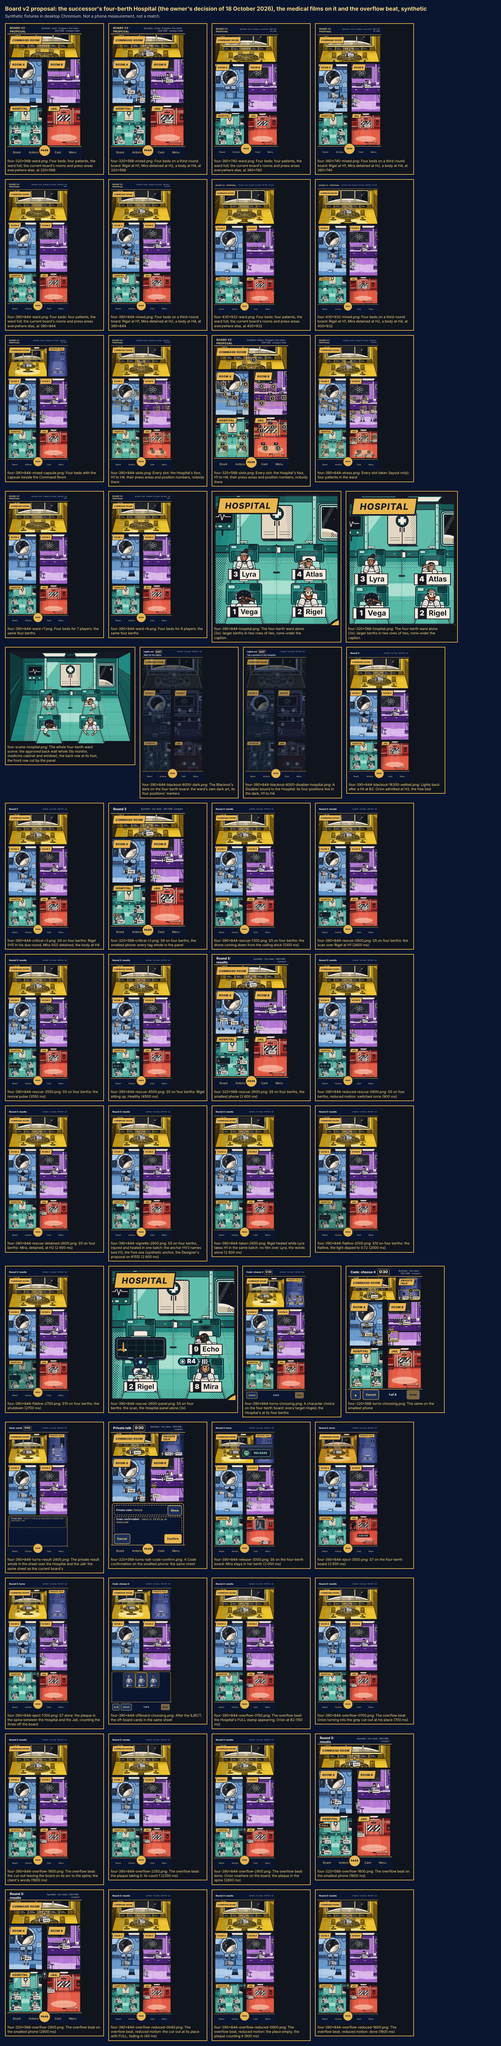
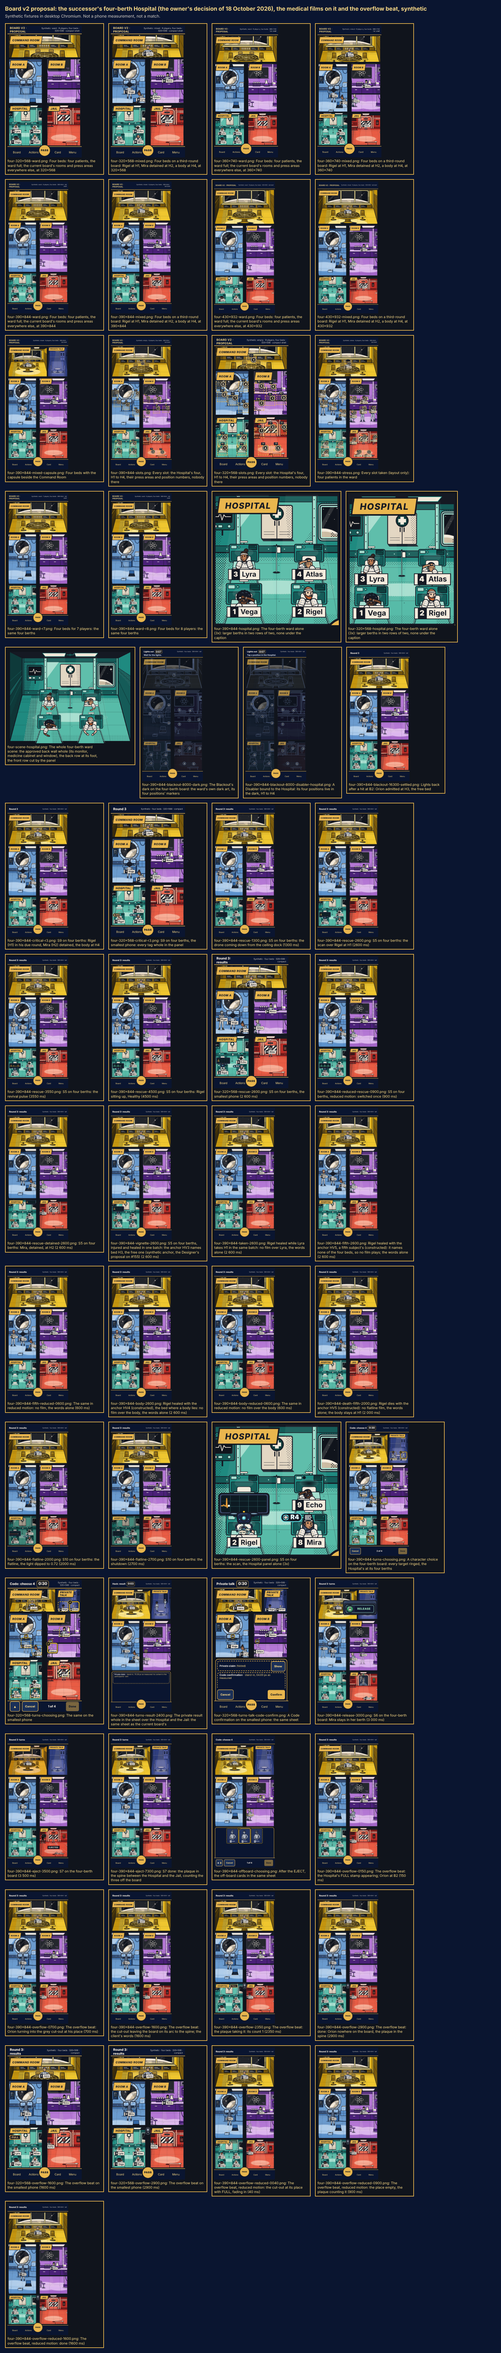
Design: no film for a clinical anchor beyond the four beds (#160 review)
Integration's review on #160, and Frontend's on #162, reproduced
fourFilmBerth({ anchorId: 'HV5' }, [], 1) throwing, although the handoff
promised the outcome's words alone when a valid clinical presentation
names no bed of the four-berth ward. Integration then accepted the
consumer boundary on #155: four physical beds, H1 to H4; clinical anchors
that stay roster-sized (HV1 to HV7, HV8 or HV9, slotCount the starting
roster); and words only for a valid HV5 and up, after strict wire
validation.

- fx/medical-four.mjs (board-v2-medical-four-0.1.1): for an authorized
  anchor beyond the four beds, fourFilmBerth() returns the explicit
  decision { berth: null, plays: false, holder: null } before asking for
  a bed. fourClinicalBerth() stays strict for actual beds. Both refuse
  anything that is not a clinical anchor of a successor match: a
  malformed id, an anchor beyond its slotCount, or a slotCount other
  than 7, 8 or 9. No exception is caught. The helper validates and
  authorizes no anchor; the caller's wire validation comes first.
- The review fixtures gain three constructed outcomes on the four-berth
  board: rescue-fifth (HV5), rescue-body (HV4, the bed a body holds) and
  death-fifth (HV5). Their anchors carry the roster-sized slotCount.
- The capture pictures them: 5 new pictures, in normal and reduced
  motion. It also adds 12 comparisons: for each case in both motion
  modes, every room but the Hospital, and the Hospital's targets, during
[…]

diff --git a/docs/design/hospital-four.md b/docs/design/hospital-four.md
@@ -5,8 +5,8 @@
 Nothing here is a rule, a server contract or an adopted asset:
 
 - **Rules:** who is admitted and who overflows, and in what order (H4-ORDER-01), are Backend's and Integration's. The board draws the server's facts; it allocates no bed and infers no admission or death from a full ward.
-- **The successor's contract is a draft:** Backend's plan on [#157](https://github.com/Amirkianfar66/GameN/pull/157) (`full-game-1.11.0` proposed and unallocated). Its overflow event (H4-CLINICAL-01) is undecided; the beat here is a proposal on Backend's preferred choice A, whose occurrence is still unallocated, with labelled synthetic inputs. The Designer's review of #157 is on [#155](https://github.com/Amirkianfar66/GameN/issues/155#issuecomment-6252817010).
-- **Adoption:** each new file needs Integration's approval by name and hash (section 10). The layout's identity (`board-v2-four-0.1.0` here) is a proposal for Integration to allocate with the successor's tuple.
+- **The successor's contract is being implemented:** Integration accepted a minimal consumer boundary for implementation on [#155](https://github.com/Amirkianfar66/GameN/issues/155#issuecomment-6256117269), and Backend's runtime draft is #163, its early shared contract at `6023d43`. The overflow event is choice A, `HOSPITAL_OVERFLOW_REMOVED { phaseId, round, seatId }`, a non-bed outcome with no clinical anchor and no overflow `MEDICAL_OUTCOME`; the clinical anchors stay roster-sized. The candidate identities (`full-game-1.11.0`, layout `board-v2-four-0.1.0`, art `design-0.5.0`) are reserved, not activated. The beat here was drawn on #157's plan with labelled synthetic inputs, before that runtime contract. The Designer's review of #157 is on [#155](https://github.com/Amirkianfar66/GameN/issues/155#issuecomment-6252817010).
+- **Adoption:** each new file needs Integration's approval by name and hash (section 10). The layout's identity (`board-v2-four-0.1.0`) is reserved by Integration with the successor's candidate tuple, not activated.
 
 | | |
 | --- | --- |
@@ -45,14 +45,26 @@ The films are #158's, unchanged; only the berths' geometry is the four-berth war
 | --- | --- |
 | `fourBerthKit(id)` | A berth's monitor, lamp, plate, bed light, bed, chest and the drone's hover point, in the shape of #158's `berthKit()`, as the four-berth ward draws them. The check holds the numbers to the ward's own SVG elements |
 | `fourRescueFrame(t, berth)` | #158's `rescueFrame()`, every field as it gives it, but the drone's lens over this ward's berth (its path from the same dock, the same timings and bob). The check compares the two every 10 ms in both motion modes |
-| `fourClinicalBerth(anchor)` | The bed an anchor names: `HVn` for `Hn`, n from 1 to 4. The Designer's proposal on #155, not a contract |
-| `fourFilmBerth(anchor, seats, subject)` | #158's rule: the film plays at that bed unless another seat holds it in the published snapshot; then the outcome's words stand alone |
+| `fourClinicalBerth(anchor)` | The bed an anchor names: `HVn` for `Hn`, n from 1 to 4. Strict, for actual beds: anything else throws, an anchor beyond the four beds included |
+| `fourFilmBerth(anchor, seats, subject)` | #158's rule: the film plays at that bed unless another seat holds it in the published snapshot. An anchor the caller has validated on the wire that names none of the four beds (`HV5` and up) declines before the bed is asked for: `{ berth: null, plays: false, holder: null }`, never a fifth bed or another subject's. Where no film plays, the outcome's words stand alone. Anything that is not a clinical anchor throws; the helper validates and authorizes no anchor |
 
-**One place per bed is enough.** An admission plays at the patient's own `slotId`. A rescue (S5) or a flatline (S10) plays at its anchor's bed only when no other seat holds it. So the healed-first case of #157 needs no fifth place: when P7 is healed out of a bed and P1 admitted to it in the same batch, P1's arrival plays at the bed and P7's rescue is said in words. The Designer draws no fifth berth and no clinical place off a bed.
+**The film's decision, for a caller:** `fourFilmBerth(anchor, seats, subject)`.
+
+- `anchor`: one the caller has already validated against the successor's wire contract, with its tuple, audience, revision and expiry: `{ kind: 'CLINICAL_VIGNETTE', batchId, anchorId: 'HVn', slotCount }` (or `'HVn'`). A successor match keeps the roster-sized anchors, `HV1` to `HV7`, `HV8` or `HV9` with `slotCount` its starting roster, whatever its four beds: Integration's accepted boundary on #155, and Backend's runtime contract in #163. The helper validates and authorizes nothing.
+- `seats`: every seat of the snapshot published with the outcome, retained bodies included, as `{ seat, slotId }`. `seat` is the stable seat identity (the wire's `seatId`, mapped; never a display index or a renumbered roster), and `slotId` is the Hospital bed or null.
+- `subject`: the outcome's seat, in the same identity.
+- It returns one of three decisions:
+  - `{ berth: 'Hn', plays: true, holder: null }`: the film at bed `Hn`;
+  - `{ berth: 'Hn', plays: false, holder }`: another seat holds the bed, a body included; the words alone;
+  - `{ berth: null, plays: false, holder: null }`: an authorized anchor beyond the four beds; the words alone.
+- It throws for anything that is not a clinical anchor of a successor match: a malformed `anchorId`, an anchor beyond its `slotCount`, or a `slotCount` that is no roster (never 4: the clinical namespace is not the ward's capacity). The caller's validation has then failed, and nothing is drawn.
+- Where no film plays, the caller says the authorized outcome once, in words, and keeps the snapshot's placement. Nothing invents a fifth bed, reuses another subject's anchor or hides a fact.
+
+**One place per bed is enough.** An admission plays at the patient's own `slotId`. A rescue (S5) or a flatline (S10) plays at its anchor's bed only when no other seat holds it. So the healed-first case of #157 needs no fifth place: when P7 is healed out of a bed and P1 admitted to it in the same batch, P1's arrival plays at the bed and P7's rescue is said in words. The successor's allocator keeps one distinct anchor per subject from the roster-sized namespace, so such a batch can give a subject `HV5` (#156's case: the four starting reservations and P1). That anchor names no bed: `fourFilmBerth()` plays nothing for it, and its outcome is said in words, as when another seat holds the bed (the review picture `four-390x844-taken-2600.png`). The Designer draws no fifth berth and no clinical place off a bed, and reuses no other subject's anchor.
 
 ## 3. The overflow victim's beat
 
-A proposal on Backend's preferred event choice A (H4-CLINICAL-01): a non-bed occurrence (illustratively `HOSPITAL_OVERFLOW_REMOVED { phaseId, round, seatId }`, unallocated), with the existing health and placement facts and no `MEDICAL_OUTCOME`. The victim never had a bed, so the beat is not clinical: no bed, berth, monitor, drone or flatline. It plays where the victim was and ends with the victim off the board, as the snapshot published with it has it (`films/overflow.mjs`, 2.8 s):
+On event choice A, which Integration accepted for implementation (#155): a non-bed occurrence, `HOSPITAL_OVERFLOW_REMOVED { phaseId, round, seatId }`, with the existing health and placement facts and no `MEDICAL_OUTCOME`. The victim never had a bed, so the beat is not clinical: no bed, berth, monitor, drone or flatline. It plays where the victim was and ends with the victim off the board, as the snapshot published with it has it (`films/overflow.mjs`, 2.8 s):
 
 | Beat | ms | What it draws |
 | --- | --- | --- |
@@ -73,9 +85,9 @@ Reduced motion (1.56 s): two still panels, each faded in over 80 ms. They show t
 
 | Input | From |
 | --- | --- |
-| The beds | The successor's stored `slotId`s, `H1` to `H4` (#157, proposed) |
+| The beds | The successor's stored `slotId`s, `H1` to `H4` (Integration's accepted boundary on #155; Backend's runtime draft #163) |
 | A patient's state | #158's: `location`, `slotId`, `health`, `jailed` and the server's `medical` facts |
-| A medical film's place | Its clinical anchor, read as `HVn` for bed `Hn` (the Designer's proposal; the successor's anchor contract is Backend's) |
+| A medical film's place | Its clinical anchor: `HV1` to `HV4` name beds `H1` to `H4`; `HV5` and up, a valid presentation with no drawable berth, play no film (`fourFilmBerth()`; the roster-sized anchors are Integration's accepted boundary on #155) |
 | The overflow beat | The non-bed occurrence's `seatId`; the victim's room and slot in the snapshot before it (when the client held it); the snapshot published with it (`location: null`, `slotId: null`, Eliminated) |
 | `t` | Milliseconds from the event's presentation start; live only |
 
@@ -87,11 +99,11 @@ Everything here is public: every phone and the display draw the same, from publi
 
 ## 6. For Frontend
 
-Frontend has reviewed none of this. Please review it before anything is ported.
+Frontend's consumer review (#162) covers this PR at `a668c10`, and its finding on `HV5` is fixed here (section 2). Please review the fix before anything is ported.
 
 1. Select the four-berth ward and its table only for a successor match whose tuple names it; never infer four beds from a roster or a full ward. The current release keeps the roster-sized ward.
 2. The board's geometry is the current one: keep `fit.mjs`'s bands, panels and sheet. Take the Hospital's slots, press areas and markers from `slots-four.mjs` and `fit-four.mjs`.
-3. Play #158's films on the four berths with `fx/medical-four.mjs`. Play the overflow beat only for a live, fresh occurrence, over the snapshot published with it, and never on a reconnect or for an expired, duplicate or baseline-suppressed one. The removal itself comes from the snapshot, so it holds when the occurrence is missed.
+3. Play #158's films on the four berths with `fx/medical-four.mjs`, in this order. Validate the successor's wire contract first: its tuple, audience, revision, expiry and anchor; the helper validates and authorizes nothing. Then `fourFilmBerth()` maps the authorized anchor to its bed, or declines one that names none of the four beds before asking for a bed (`fourClinicalBerth()` stays strict for actual beds). Where it plays no film (another seat holds the bed, or the anchor names none), say the authorized outcome once, in words alone, and keep the snapshot's placement; never draw a fifth bed or at another subject's anchor, and never drop the outcome. Pass the snapshot's seats as `{ seat, slotId }`, bodies included, with the outcome's subject as the same seat number: map the wire's `seatId` to that identity first, or port the comparison on `seatId` (Backend's reconciliation on #157, `8e423a7`; Frontend's consumer review, #162, plans a typed adapter with acceptance coverage). Raw wire seats would find no holder and could draw over an occupied bed. #158's `filmBerth()` takes the same identity. Play the overflow beat only for a live, fresh occurrence, over the snapshot published with it, and never on a reconnect or for an expired, duplicate or baseline-suppressed one. The removal itself comes from the snapshot, so it holds when the occurrence is missed.
 4. Draw the victim at its earlier place only where the client held the snapshot before; otherwise the beat draws nothing of it.
 5. Keep every slot's target live and on top. Stop the beat at once for a newer snapshot that moves anyone, the Blackout's window, or a hidden page.
 6. Say the occurrence once, in the client's words; time them to `announce` if they are timed to the beat. The review page uses the hosted board's elimination words as a stand-in.
@@ -108,11 +120,12 @@ Frontend has reviewed none of this. Please review it before anything is ported.
 | `&film=critical\|rescue\|flatline` | #158's films on the four berths (`&outcome=` the mixed board's examples) |
 | `&film=blackout`, `&film=capsule&ui=…`, `&film=release\|eject` | The other films and the controls, on the successor board |
 | `&film=overflow&t=` | The overflow beat (default 700 ms); `&motion=reduced`, `&play=1` |
+| `&film=rescue&outcome=rescue-fifth\|rescue-body`, `&film=flatline&outcome=death-fifth` | `fourFilmBerth()`'s no-film paths, with constructed anchors (synthetic): `HV5`, which names none of the four beds, and `HV4`, the bed a body holds. No film; the words alone |
 | `?scene=hospital&beds=4` | The whole four-berth scene |
 
 ## 7. For Backend
 
-1. **Anchors.** The films need one place per bed (section 2). If the successor keeps one distinct anchor per subject, a fifth anchor has no bed to be drawn at, and that subject's outcome would be words only.
+1. **Anchors.** Settled by Integration's accepted boundary (#155) and carried by Backend's runtime contract (#163): the successor keeps the roster-sized anchors, `HV1` to `HV7`, `HV8` or `HV9`, with `slotCount` the starting roster. The films need one place per bed (section 2): `HV1` to `HV4` name the beds, and `HV5` and up are valid presentations with no drawable berth, which `fourFilmBerth()` declines, the outcome said in words only.
 2. **The occurrence.** The beat needs only `seatId`, with the placement facts. Under choice A no clinical record is drawn for the victim.
 
 ## 8. For Integration
@@ -128,22 +141,22 @@ These were run on this branch in this container. Desktop Chromium laid out a rev
 
 | Check | Result |
 | --- | --- |
-| `node design/tools/board-v2-check.mjs` | **14 / 14.** #159's thirteen and the successor's own. `fit-four.mjs` exports `fit.mjs`'s own `fitBoardV2()`, bands, shell and fallbacks, the same functions, and its four slot functions are `fit.mjs`'s code over the successor's table; `turns-four.mjs` is `turns.mjs` line for line but its two imports. Four berths, `H1` to `H4`, for 7, 8 and 9 players, the same drawing for each; every other room has the current table's own slots. Each blanket is over its own patient and under nobody else; each front headboard is between the back row and its patient. The berths' monitors, plates and lamps are the ward's own SVG elements, each badge is at its plate, each chest at its press point, and the drone comes from the dock, hovers over each berth while it scans and goes back. #158's rescue, every 10 ms in both motion modes, is #158's frame on each of the four berths, field for field, except for where the drone is; in the reduced variant the drone stays at its berth. `HVn` names bed `Hn` and nothing else, and no film plays over a bed another seat holds. The four berths are whole, apart and 44 px or more in every Hospital panel the current board draws (5 610 boards: every width, inset case and shell boundary the shell check visits, with the capsule and without, for every roster), and clear of the Pass; every other room's press areas are exactly the current board's. #158's tags, insets (186 placed) and drone are clear at the 8 phone sizes, the ward full or empty. The controls' sheet and choosing row are the current board's (42 layouts, normal and 200% text), with up to eight off-board cards of 44 px or more (285 decks). The overflow beat, every 10 ms in both motion modes: 2.8 s, nothing drawn outside it, the words never withdrawn, still reduced panels, and no input but the moment and the setting changes it. The plaque fits the spine at every phone size (48 boards), and the FULL stamp is whole in the panel, over neither the caption nor a bed's press area. The example has the server's shape: the ward full, the victim an incoming Healthy player and off the board afterwards, nobody else moved. The contracts name no role. It also checks that the captures are current |
-| `node design/tools/board-v2-capture.mjs` | **326 pictures and eight contact sheets, 0 with problems**, 52 of them the four-berth board's. Each four-berth picture is measured as the current board's are, with `fit-four.mjs`'s expectations: no scroll; every room's press areas and position numbers where `fit-four.mjs` puts them; a real pointer landing on every slot's target. #158's films on the four berths are measured against `fx/medical-four.mjs` as #158's are against `fx/medical.mjs`: the tags, the inset, the drone and its lens, the light; the Blackout's dark at its four positions; the controls' sheet; the Captain's films with the plaque in the spine. Every overflow picture is checked for: the page at the beat's stage and the live region's words at the beat; no side or role word; the FULL stamp where `fullStampBox()` puts it and at the frame's opacity, over neither the caption nor a bed's press area; the victim's own figure and grey cut-out at its place alone, as the frame has them; one plaque, where `spinePlaqueBox()` puts it, its count the snapshot's; the flyer on `overflowWay()` from the victim's press point to the plaque's centre (to 1.5 px); nothing of the beat on the page before or after it |
-| The same run: **391 whole-page comparisons, 0 differing** | #159's 376, and 15 for the successor. Every room but the Hospital on the four-berth board and on the current one, at 390 × 844 and 320 × 568, with the capsule and without: 4. The page after the overflow beat and before it, in both motion modes: 4. The display's page and a player's, during the beat (2) and the rescue on four berths (1): 3. The rooms the beat never touches (the Command Room, Room A and the Jail) during it and before it: 3. The rooms the rescue never touches during it and before it: 1 |
+| `node design/tools/board-v2-check.mjs` | **14 / 14.** #159's thirteen and the successor's own. `fit-four.mjs` exports `fit.mjs`'s own `fitBoardV2()`, bands, shell and fallbacks, the same functions, and its four slot functions are `fit.mjs`'s code over the successor's table; `turns-four.mjs` is `turns.mjs` line for line but its two imports. Four berths, `H1` to `H4`, for 7, 8 and 9 players, the same drawing for each; every other room has the current table's own slots. Each blanket is over its own patient and under nobody else; each front headboard is between the back row and its patient. The berths' monitors, plates and lamps are the ward's own SVG elements, each badge is at its plate, each chest at its press point, and the drone comes from the dock, hovers over each berth while it scans and goes back. #158's rescue, every 10 ms in both motion modes, is #158's frame on each of the four berths, field for field, except for where the drone is; in the reduced variant the drone stays at its berth. `HVn` names bed `Hn` and nothing else (`fourClinicalBerth()` refuses `HV5` and up); the film declines an anchor beyond the four beds before asking for a bed (no film, the words alone), with `slotCount` 7, 8 or 9, and refuses anything that is not a clinical anchor of a successor match (a malformed id, an anchor beyond its `slotCount`, a `slotCount` of 4); no film plays over a bed another seat holds. The four berths are whole, apart and 44 px or more in every Hospital panel the current board draws (5 610 boards: every width, inset case and shell boundary the shell check visits, with the capsule and without, for every roster), and clear of the Pass; every other room's press areas are exactly the current board's. #158's tags, insets (186 placed) and drone are clear at the 8 phone sizes, the ward full or empty. The controls' sheet and choosing row are the current board's (42 layouts, normal and 200% text), with up to eight off-board cards of 44 px or more (285 decks). The overflow beat, every 10 ms in both motion modes: 2.8 s, nothing drawn outside it, the words never withdrawn, still reduced panels, and no input but the moment and the setting changes it. The plaque fits the spine at every phone size (48 boards), and the FULL stamp is whole in the panel, over neither the caption nor a bed's press area. The example has the server's shape: the ward full, the victim an incoming Healthy player and off the board afterwards, nobody else moved. The contracts name no role. It also checks that the captures are current |
+| `node design/tools/board-v2-capture.mjs` | **331 pictures and eight contact sheets, 0 with problems**, 57 of them the four-berth board's. Each four-berth picture is measured as the current board's are, with `fit-four.mjs`'s expectations: no scroll; every room's press areas and position numbers where `fit-four.mjs` puts them; a real pointer landing on every slot's target. #158's films on the four berths are measured against `fx/medical-four.mjs` as #158's are against `fx/medical.mjs`: the tags, the inset, the drone and its lens, the light; the Blackout's dark at its four positions; the controls' sheet; the Captain's films with the plaque in the spine. Every overflow picture is checked for: the page at the beat's stage and the live region's words at the beat; no side or role word; the FULL stamp where `fullStampBox()` puts it and at the frame's opacity, over neither the caption nor a bed's press area; the victim's own figure and grey cut-out at its place alone, as the frame has them; one plaque, where `spinePlaqueBox()` puts it, its count the snapshot's; the flyer on `overflowWay()` from the victim's press point to the plaque's centre (to 1.5 px); nothing of the beat on the page before or after it. Five pictures are `fourFilmBerth()`'s no-film paths, with constructed anchors: `HV5`, which names none of the four beds (a rescue in both motion modes, and a death), and `HV4` on the bed a body holds (a rescue in both motion modes). On each: no node of a film, nobody hidden or marked away, every berth's state from the snapshot's facts, the client's words at once in the live region, and a real pointer landing on every slot's target |
+| The same run: **403 whole-page comparisons, 0 differing** | #159's 376, and 27 for the successor. Every room but the Hospital on the four-berth board and on the current one, at 390 × 844 and 320 × 568, with the capsule and without: 4. The page after the overflow beat and before it, in both motion modes: 4. The display's page and a player's, during the beat (2) and the rescue on four berths (1): 3. The rooms the beat never touches (the Command Room, Room A and the Jail) during it and before it: 3. The rooms the rescue never touches during it and before it: 1. For each no-film case in both motion modes, during the outcome and before it: every room but the Hospital, and the Hospital's targets, none added: 12 |
 | The same run: **230 pointer probes, 23 press tests (129 presses), 12 label placements** | 0 problems |
-| Pictures byte for byte the same | Every review picture and contact sheet made before the successor (274 pictures, seven sheets) re-rendered byte for byte the same; only `index.json` and `report.json` changed, with the new pictures |
+| Pictures byte for byte the same | Every review picture and contact sheet made before the successor (274 pictures, seven sheets) re-rendered byte for byte the same; only `index.json` and `report.json` changed, with the new pictures. After the fix for an anchor beyond the four beds (Integration's review, this PR's third commit), the whole capture was run again: all 326 earlier pictures, and seven of the eight sheets, byte for byte the same as at `8f615f0`; the four-berth sheet gains the five new pictures, and the two records change with them |
 | `node design/tools/board-v2-assets.mjs --check` | 127 files current |
-| `npm test --workspace @mothership/design-tokens` | **305 / 305**, 12 of them in `four.test.mjs` |
-| `npm run verify` | Passed through `test:balance`'s static gate: toolchain, workspace and sources checks, both typechecks, bootstrap 55 / 55, engine 253 / 253, backend 187 / 187, tooling 130 / 130, frontend 194 / 194 and 448 / 448, design 305 / 305, balance static 103 / 103. `test:scenarios` refuses an uncommitted tree, so it was re-run on `8f615f0` in a clean checkout of that commit, clean before and after. Its catalogue passed (555 ids: 516 passed, 33 reviewed blocked, 6 explicit manual, zero errors), and its engine controls detected all 4490 (1419, 1418 and 1653 in modes 7, 8 and 9; none undetected), every listed leak caught. The gate then stopped at its 20-minute limit in this container, with no failure in its logs. `test:capacity` was not run here. Neither gate touches this PR's files; the PR's CI runs both |
-| A mutation of the beat's clock (this session, not committed) | Measuring each overflow picture against the frame 150 ms later than its query made 6 of the 10 fail: on the stage, the FULL stamp's opacity, the victim's figures and the flyer's place |
+| `npm test --workspace @mothership/design-tokens` | **306 / 306**, 13 of them in `four.test.mjs`: among them every decision the film can take (the four beds drawable, a held or body-held bed, an anchor beyond them, nothing valid) with stable seat ids, and an unmapped `seatId` not read as a holder |
+| `npm run verify` | Passed through `test:balance`'s static gate: toolchain, workspace and sources checks, both typechecks, bootstrap 55 / 55, engine 253 / 253, backend 187 / 187, tooling 130 / 130, frontend 194 / 194 and 448 / 448, design 306 / 306, balance static 103 / 103. `test:scenarios` refuses an uncommitted tree, so it was re-run on `8f615f0` in a clean checkout of that commit, clean before and after. Its catalogue passed (555 ids: 516 passed, 33 reviewed blocked, 6 explicit manual, zero errors), and its engine controls detected all 4490 (1419, 1418 and 1653 in modes 7, 8 and 9; none undetected), every listed leak caught. The gate then stopped at its 20-minute limit in this container, with no failure in its logs. `test:capacity` was not run here. Neither gate touches this PR's files; the PR's CI runs both. On the fix (this PR's third commit), `npm run verify` passed again through the same static gate; the scenario gate on that commit is the PR's CI's |
+| Two mutations (this session, not committed) | The beat's clock: measuring each overflow picture against the frame 150 ms later than its query made 6 of the 10 fail: on the stage, the FULL stamp's opacity, the victim's figures and the flyer's place. The anchors: without the film's decline (`fourFilmBerth()` throwing on `HV5` again, as at `8f615f0`), the static check failed on the four beds' anchors (`HV5 does not decline its film`, for `HV5` and `HV9` and for `HV5` with `slotCount` 7, 8 and 9) and 2 of `four.test.mjs`'s 13 tests |
 
[2 lines of base64/hex data omitted]
 
 **Not run:**
 
 - Real phones, a screen reader, a phone's own text-size setting, or reduced motion set on a device: the review page takes `&motion=reduced` from its query.
-- A match or any server: the four beds' patients, the anchors and the overflow occurrence come from the review page's synthetic fixtures, not from #157, which is a plan.
+- A match or any server: the four beds' patients, the anchors and the overflow occurrence come from the review page's synthetic fixtures, not from Backend's runtime draft (#163), which was not run here.
 - An overflow beat cut by a newer snapshot or the Blackout's window: specified (section 6), not pictured.
 - Two overflow victims in one batch: not pictured, and how their beats follow each other is open (section 11).
 - The owner's review.
@@ -162,7 +175,7 @@ Read every file at this PR's commit. Every file carries the `mothership:dev-only
 | `design/board-v2/scenes/slots-four.mjs` | The successor's slot table, `board-v2-four-0.1.0` (proposed) | `slots.mjs`'s exports: `BOARD_ROOMS`, `LOCATION_OF`, `SCENE_UNITS`, `SLOTS_VERSION`, `SLOT_TABLE_VERSION`, `ROSTERS`, `slotCount`, `sceneOf`, `slotsOf`, `boardSlots`, `slotProblems` |
 | `design/board-v2/js/fit-four.mjs` | The successor's layout: `fit.mjs` re-exported, its four slot functions over the successor's table | `fit.mjs`'s exports but `needHeight` |
 | `design/board-v2/js/turns-four.mjs` | `turns.mjs` with its two imports changed | `turns.mjs`'s exports |
-| `design/board-v2/fx/medical-four.mjs` | #158's films on the four berths, `board-v2-medical-four-0.1.0` | `MEDICAL_FOUR_VERSION`, `fourBerthKit`, `fourBerthKits`, `fourClinicalBerth`, `fourFilmBerth`, `fourDronePosition`, `fourRescueFrame` |
+| `design/board-v2/fx/medical-four.mjs` | #158's films on the four berths, `board-v2-medical-four-0.1.1` | `MEDICAL_FOUR_VERSION`, `fourBerthKit`, `fourBerthKits`, `fourClinicalBerth`, `fourFilmBerth`, `fourDronePosition`, `fourRescueFrame` |
 | `design/board-v2/fx/overflow.mjs` | The plaque in the spine, the FULL stamp, the victim's way, `board-v2-overflow-0.1.0` | `OVERFLOW_FX_VERSION`, `spinePlaqueBox`, `fullStampBox`, `overflowWay` |
 | `design/board-v2/films/overflow.mjs` | The overflow victim's beat, `board-v2-overflow-films-0.1.0` | `OVERFLOW_FILMS_VERSION`, `OVERFLOW_FILM`, `overflowEnd`, `overflowFrame`, `overflowContract` |
 
@@ -177,7 +190,7 @@ To check every file proposed for import, and the generated contracts, run `sha25
 268d53c7a807df9f465b9c632ec6f962f94551cdeabcfa06475af21fff1df085  design/board-v2/scenes/slots-four.mjs
 9091cee28f6265675ea33f2d59e3598773ba714a8240997140b5c35a44c1c1ca  design/board-v2/js/fit-four.mjs
 a1099fee5c44ddbc147d6f8b58ec38ba3d7e1e022e31bfc02a0b62dff1ef1e6e  design/board-v2/js/turns-four.mjs
-c289a932a955a28ef9a1be4635bfb1632badc77b42c06e9c062fc42970fd166b  design/board-v2/fx/medical-four.mjs
+90ae67a8cd9c5d92454417cc1a7ba5dd16172e7081ae4c5427caa013e9627ee0  design/board-v2/fx/medical-four.mjs
 916d17bb81dcadb18a71f2e4ac044853c7067522ba02c91df9a22c3f4a413a8f  design/board-v2/fx/overflow.mjs
 074df18a98baeb57fbead94f3be22d544530dc1950518b1e2be0264cc3f67428  design/board-v2/films/overflow.mjs
 d6e47a6b16f44dc125066a65a51cb12ddd0d7af0a932c7057cab44dfd71b3f73  design/board-v2/assets/scenes/hospital-ward-four.back.svg
@@ -190,7 +203,7 @@ c1750f7c8c2ed967063b37e9814466a30746bb6aecf8c7fd807c9028d49f02a1  design/board-v
 1965030a05caeaff8f778317bcc687789aa40728a164dd5a8340a07e4132f542  design/board-v2/assets/lighting/hospital-ward-four.dark.svg
 4f74c8112c5e6434e6e81e224d30140a46ecb67289f7e29b37119a3d464c4cfd  design/board-v2/contract/slots-four.json
 b570c7700a425857664a1b7839473f22eb980a7b0d2e942851902fb409159283  design/board-v2/contract/films.json
-1ba7d642fedd017fdad02885465305e776dc7108e4c73118270e52a64a59668b  design/board-v2/assets/manifest.json
+fae0e87d3bdad4a2ec3115d05c58096714ada3bbbc6f06fdfcf1fa64700f01e2  design/board-v2/assets/manifest.json
 ```
 
 **Review only, not to port:**
@@ -201,7 +214,7 @@ b570c7700a425857664a1b7839473f22eb980a7b0d2e942851902fb409159283  design/board-v
 f3f07a3c49e80ab2b4b2c01daf6a64d4b5f43a6ad0329fcfbe98a4a86726f262  design/board-v2/js/overflow-fixtures.mjs
 a340041000d9b3ce01db896bfe64523a5d093cb7dfef21bb3cfb7cb7c5bc87bd  design/board-v2/js/page.js
 1689ae8dff12a59b98f58e2e786c1eb0f22b9194a5f746240908625582d1fae1  design/board-v2/js/medical-view.mjs
-4d09fe24a4530b81c6884323ae8a6d688664cb7c7841596e0dfd8a600e8c9ce3  design/board-v2/js/medical-fixtures.mjs
+401c614f36b7da102d370554c7a8eecd0852a962fe797ad657ed0504075a073e  design/board-v2/js/medical-fixtures.mjs
 ba46ec99d074c0076fb111caeca1f43f50be81b104aba99f896bd2c5188300f6  design/board-v2/js/captain-view.mjs
 094ab866130ee7102f3bb91273fa6f6e092ab93248b6ed10fa21cca5ea92649d  design/board-v2/js/captain-fixtures.mjs
 fa4e51d42418d8b5fed200450bf289f92dbc7dc29798b8e9c615dfdfc93fe099  design/board-v2/js/blackout-view.mjs
@@ -212,24 +225,22 @@ a049f7719f1bf3d1c72f072ba918d7a034c964f0aec8b9453c8004c4023fef0a  design/board-v
 bb97d48f750a2eb4dcde63d207301461f321e1756adeba0868ec7efe1e8847d8  design/board-v2/css/page.css
 acc3f635d714c3b23b4a07ebcb6eaaebe70409b9fc546778b25ab9d21963fa7a  design/board-v2/contact.html
 49a311593f7a9bb79f955ee2fa04ddd788bab2309e0076d8946a914863c9f470  design/tools/board-v2-assets.mjs
-c8513a63c4fa730b376d497247e473fe548826a490bcbea13e2fb9da88df579c  design/tools/board-v2-capture.mjs
-a1b865c4e9f580f6e7a07509f16559acd4de78cd37e4c196c380a28c00094c39  design/tools/board-v2-check.mjs
-3c79fdc0610fb3113764054482d6dd419443335dce5034a4f1e464e191644d74  packages/design-tokens/test/four.test.mjs
-336abc9ce5c9b01070d8a9bbf2ea0708426119501b0545aa38ab0ccb256f63ce  design/board-v2/review/contact-four.png
-ce1abab54d0e0c0e6afb06440b5a789048a9053c8f509fe1ee6416a3a1f268d1  design/board-v2/review/index.json
-94792a4d58550268f05e11c5ac014e5b42191d4da392db55326b7dd6dca5b54c  design/board-v2/review/report.json
+bf9bdef78d384297cc29ca2501ea6518922dbc73267fd3d00622c829ca8b28de  design/tools/board-v2-capture.mjs
+cefb46b0f446e07fa94a78be59d528dd81c6b324aaf5bc0667f353f2c3313498  design/tools/board-v2-check.mjs
+c50ec8f86efc47184cf602ced6cfb925b945339bafeb1963dddc9755b3caa814  packages/design-tokens/test/four.test.mjs
+593c004916cbd5d442450f79a3bf7ed20734b5b7af266edb0dd9edf118e963ca  design/board-v2/review/contact-four.png
+7a5941b8e9efdeba0d1016a671268e13488f6cc1adc5d234ec3343ac8b9c2c9b  design/board-v2/review/index.json
+7b649031b6c61f53264160ba03042c11b6a1b9161684f9c8c229d72c488e2f68  design/board-v2/review/report.json
 ```
 
-The complete list of every path this PR changes, its pictures included, with each SHA-256 at the PR's first head, is in the [deliverables index](deliverables.md), version 5.
+The complete list of every path this PR changes, its pictures included, with each SHA-256 at the head that delivered it, is in the [deliverables index](deliverables.md), version 7.
 
 ## 11. Unresolved
 
 | Question | Owner | Meanwhile |
 | --- | --- | --- |
-| Admission order at the last bed (H4-ORDER-01) | Integration, Balance, Backend | The board draws whatever the server places |
-| The overflow event (H4-CLINICAL-01): A or B | Integration, Frontend, Designer, Backend | The beat is a proposal on A, with labelled synthetic inputs |
-| The successor's clinical anchors | Backend, Integration | `HVn` read as bed `Hn` (the Designer's proposal) |
+| Admission order at the last bed (H4-ORDER-01) | Backend's implementation candidate (healed departures first, then seat order; #155, #163), Balance's review | The board draws whatever the server places |
 | The occurrence's words | Frontend | The review page uses the elimination words as a stand-in |
 | Two overflow victims in one batch: one beat after the other, or together | Frontend, Designer, after H4-ORDER-01 | Not pictured; the plaque's count is the snapshot's |
-| The layout's identity and the Ready mapping | Integration | `board-v2-four-0.1.0`, proposed |
+| The layout's identity and the Ready mapping | Integration, end to end | `board-v2-four-0.1.0` and `design-0.5.0`, reserved and not activated (#155) |
 | Real phones, a screen reader, the owner's review | — | Not run |
